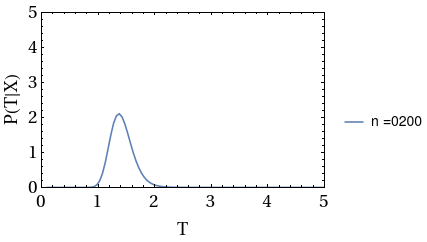
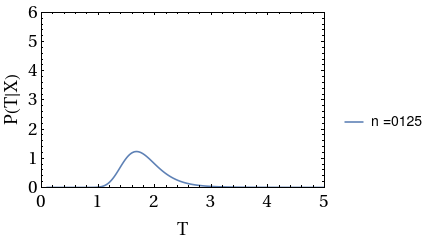
New Scene 6 - Results for the posterior

diff --git a/collisional.py b/collisional.py
@@ -1229,6 +1229,122 @@ class Scene_6(Scene):
     def construct(self):
 
         # Title
+        title = tools().label(text = '\\underline{Results I}', x = 0, y = 3, color = royal_blue).scale(1.1)
+        Underline(title)
+
+        self.play(Write(title))
+        self.wait(1)
+
+        ######################################################
+
+        # About the experiments
+        subtitle = Tex('Posterior Density',color = royal_blue).scale(.9)
+        subtitle.next_to(title, DOWN).to_edge(LEFT)
+        self.play(FadeIn(subtitle))
+        lines = []
+
+        lines.append(tools().label(text = r'$\bullet$ "Flat" prior', color = BLACK).scale(0.6).next_to(subtitle, DOWN).align_to(subtitle, LEFT))
+        lines.append(tools().label(text = r'$\bullet$ $\tau_{SE} = 0.2$ ', color = BLACK).scale(0.6).next_to(lines[0], DOWN).align_to(subtitle, LEFT))
+        lines.append(tools().label(text = r'$\bullet$ Full SWAP: $\tau_{SA} = \frac{\pi}{2}$ ', color = BLACK).scale(0.6).next_to(lines[1], DOWN).align_to(subtitle, LEFT))
+        self.play(FadeIn(lines[0]), FadeIn(lines[1]), FadeIn(lines[2]))
+
+        # Prior
+        prior_plot = ImageMobject("assets/collisional/PriorPDF.png").scale(1)
+        prior_plot.next_to(lines[1], RIGHT).shift(2*RIGHT)
+        self.play(FadeIn(prior_plot))
+
+        #PDF grid
+        PDFGrid = ImageMobject("assets/collisional/PDFGrid.png").scale(1)
+        PDFGrid.next_to(lines[2], DOWN).align_to(subtitle, LEFT).shift(DOWN)
+        self.play(FadeIn(PDFGrid))
+
+        # Arrow
+        PDFGridArrow = Arrow(ORIGIN, 7*RIGHT).set_color(crimson)
+        PDFGridArrow.next_to(PDFGrid, DOWN)
+        PDFGridArrow_Label = Tex("Number of measured ancillas", color=crimson)
+        PDFGridArrow_Label.scale(0.5).next_to(PDFGridArrow, DOWN)
+
+        self.play(ShowCreation(PDFGridArrow), Write(PDFGridArrow_Label))
+        self.wait(2)
+        self.play(FadeOut(PDFGridArrow), FadeOut(PDFGridArrow_Label))
+
+        # Fist slice
+        highlight1 = Rectangle(width = 0.1, height = 2, color = crimson)
+        tools().mob_pos(highlight1, x = -5.85, y = -1.6)
+        self.play(GrowFromEdge(highlight1, LEFT))
+
+        PDFPlot1 = ImageMobject("assets/collisional/PDFPlot1.png").scale(0.75)
+        PDFPlot1.next_to(highlight1, DOWN)
+        self.play(FadeIn(PDFPlot1))
+        self.wait(2)
+        self.play(FadeOut(PDFPlot1))
+
+        # Second slice
+        highlight2 = Rectangle(width = 0.1, height = 2, color = crimson)
+        tools().mob_pos(highlight2, x = -5.45, y = -1.6)
+        self.play(ReplacementTransform(highlight1, highlight2))
+
+        PDFPlot2 = ImageMobject("assets/collisional/PDFPlot2.png").scale(0.75)
+        PDFPlot2.next_to(highlight2, DOWN)
+        self.play(FadeIn(PDFPlot2))
+        self.wait(2)
+        self.play(FadeOut(PDFPlot2))
+
+        # Third slice
+        highlight3 = Rectangle(width = 0.1, height = 2, color = crimson)
+        tools().mob_pos(highlight3, x = -4.9, y = -1.6)
+        self.play(ReplacementTransform(highlight2, highlight3))
+
+        PDFPlot3 = ImageMobject("assets/collisional/PDFPlot3.png").scale(0.75)
+        PDFPlot3.next_to(highlight3, DOWN)
+        self.play(FadeIn(PDFPlot3))
+        self.wait(2)
+        self.play(FadeOut(PDFPlot3))
+
+        # Fourth slice
+        highlight4 = Rectangle(width = 0.1, height = 2, color = crimson)
+        tools().mob_pos(highlight4, x = -3.9, y = -1.6)
+        self.play(ReplacementTransform(highlight3, highlight4))
+
+        PDFPlot4 = ImageMobject("assets/collisional/PDFPlot4.png").scale(0.75)
+        PDFPlot4.next_to(highlight4, DOWN)
+        self.play(FadeIn(PDFPlot4))
+        self.wait(2)
+        self.play(FadeOut(PDFPlot4), FadeOut(highlight4))
+
+        # PDF Animation
+        nPDF = 20
+        loops = 4
+        PDF_List = Group(*[ImageMobject('assets/collisional/PDFList'+str(i+1)+'.png').scale(1) for i in range(nPDF)])
+        PDF_List.next_to(PDFGrid, RIGHT).shift(0.5*RIGHT)
+
+        self.play(FadeIn(PDF_List[0]))
+        for i in range(loops*nPDF - 1):
+            self.wait(0.25)
+            self.remove(PDF_List[i%nPDF])
+            self.add(PDF_List[(i+1)%nPDF])
+
+        # Erase Lines
+        self.play(FadeOut(lines[0]), FadeOut(lines[1]), FadeOut(lines[2]), FadeOut(prior_plot))
+
+        # Explanation on asymptotic limit
+        lines=[]
+        lines.append(tools().label(text = r'$\bullet$ The posterior becomes assymptotically Gaussian', color = BLACK).scale(0.6).next_to(lines[0], DOWN).align_to(subtitle, LEFT))
+
+        self.play(FadeIn(lines[0])))
+
+        self.wait(5)
+
+'''
+###########
+##SCENE 7##
+###########
+'''
+
+class Scene_7(Scene):
+    def construct(self):
+
+        # Title
         title = tools().label(text = '\\underline{Bayesian Estimators}', x = 0, y = 3, color = royal_blue).scale(1.1)
         Underline(title)
 
@@ -1404,11 +1520,11 @@ class Scene_6(Scene):
 
 '''
 ###########
-##SCENE 7##
+##SCENE 8##
 ###########
 '''
 
-class Scene_7(Scene):
+class Scene_8(Scene):
     def construct(self):
 
         # Title
@@ -1832,11 +1948,11 @@ class Scene_7(Scene):
 
 '''
 ###########
-##SCENE 8##
+##SCENE 9##
 ###########
 '''
 
-class Scene_8(Scene):
+class Scene_9(Scene):
     def construct(self):
 
         # Title
@@ -1945,7 +2061,7 @@ class Scene_8(Scene):
             self.add(PDF_List[(i+1)%nPDF])
 
         # Estimators
-        Estimators = ImageMobject("assets/collisional/Estimators.png").scale(1)
+        Estimators = ImageMobject("assets/collisional/Estimators_presentation.png").scale(1)
         Estimators.to_edge(RIGHT).to_edge(DOWN)
         Estimators_label =Tex("Estimated Temperature", color = BLACK).scale(0.6)
         Estimators_label.next_to(Estimators, UP).shift(0.0 * RIGHT)
@@ -1967,12 +2083,12 @@ class Scene_8(Scene):
                   FadeOut(Estimators), FadeOut(Estimators_label), FadeOut(prior_plot), FadeOut(prior_label))
 
 '''
-###########
-##SCENE 9##
-###########
+############
+##SCENE 10##
+############
 '''
 
-class Scene_9(Scene):
+class Scene_10(Scene):
     def construct(self):
 
         # Title
